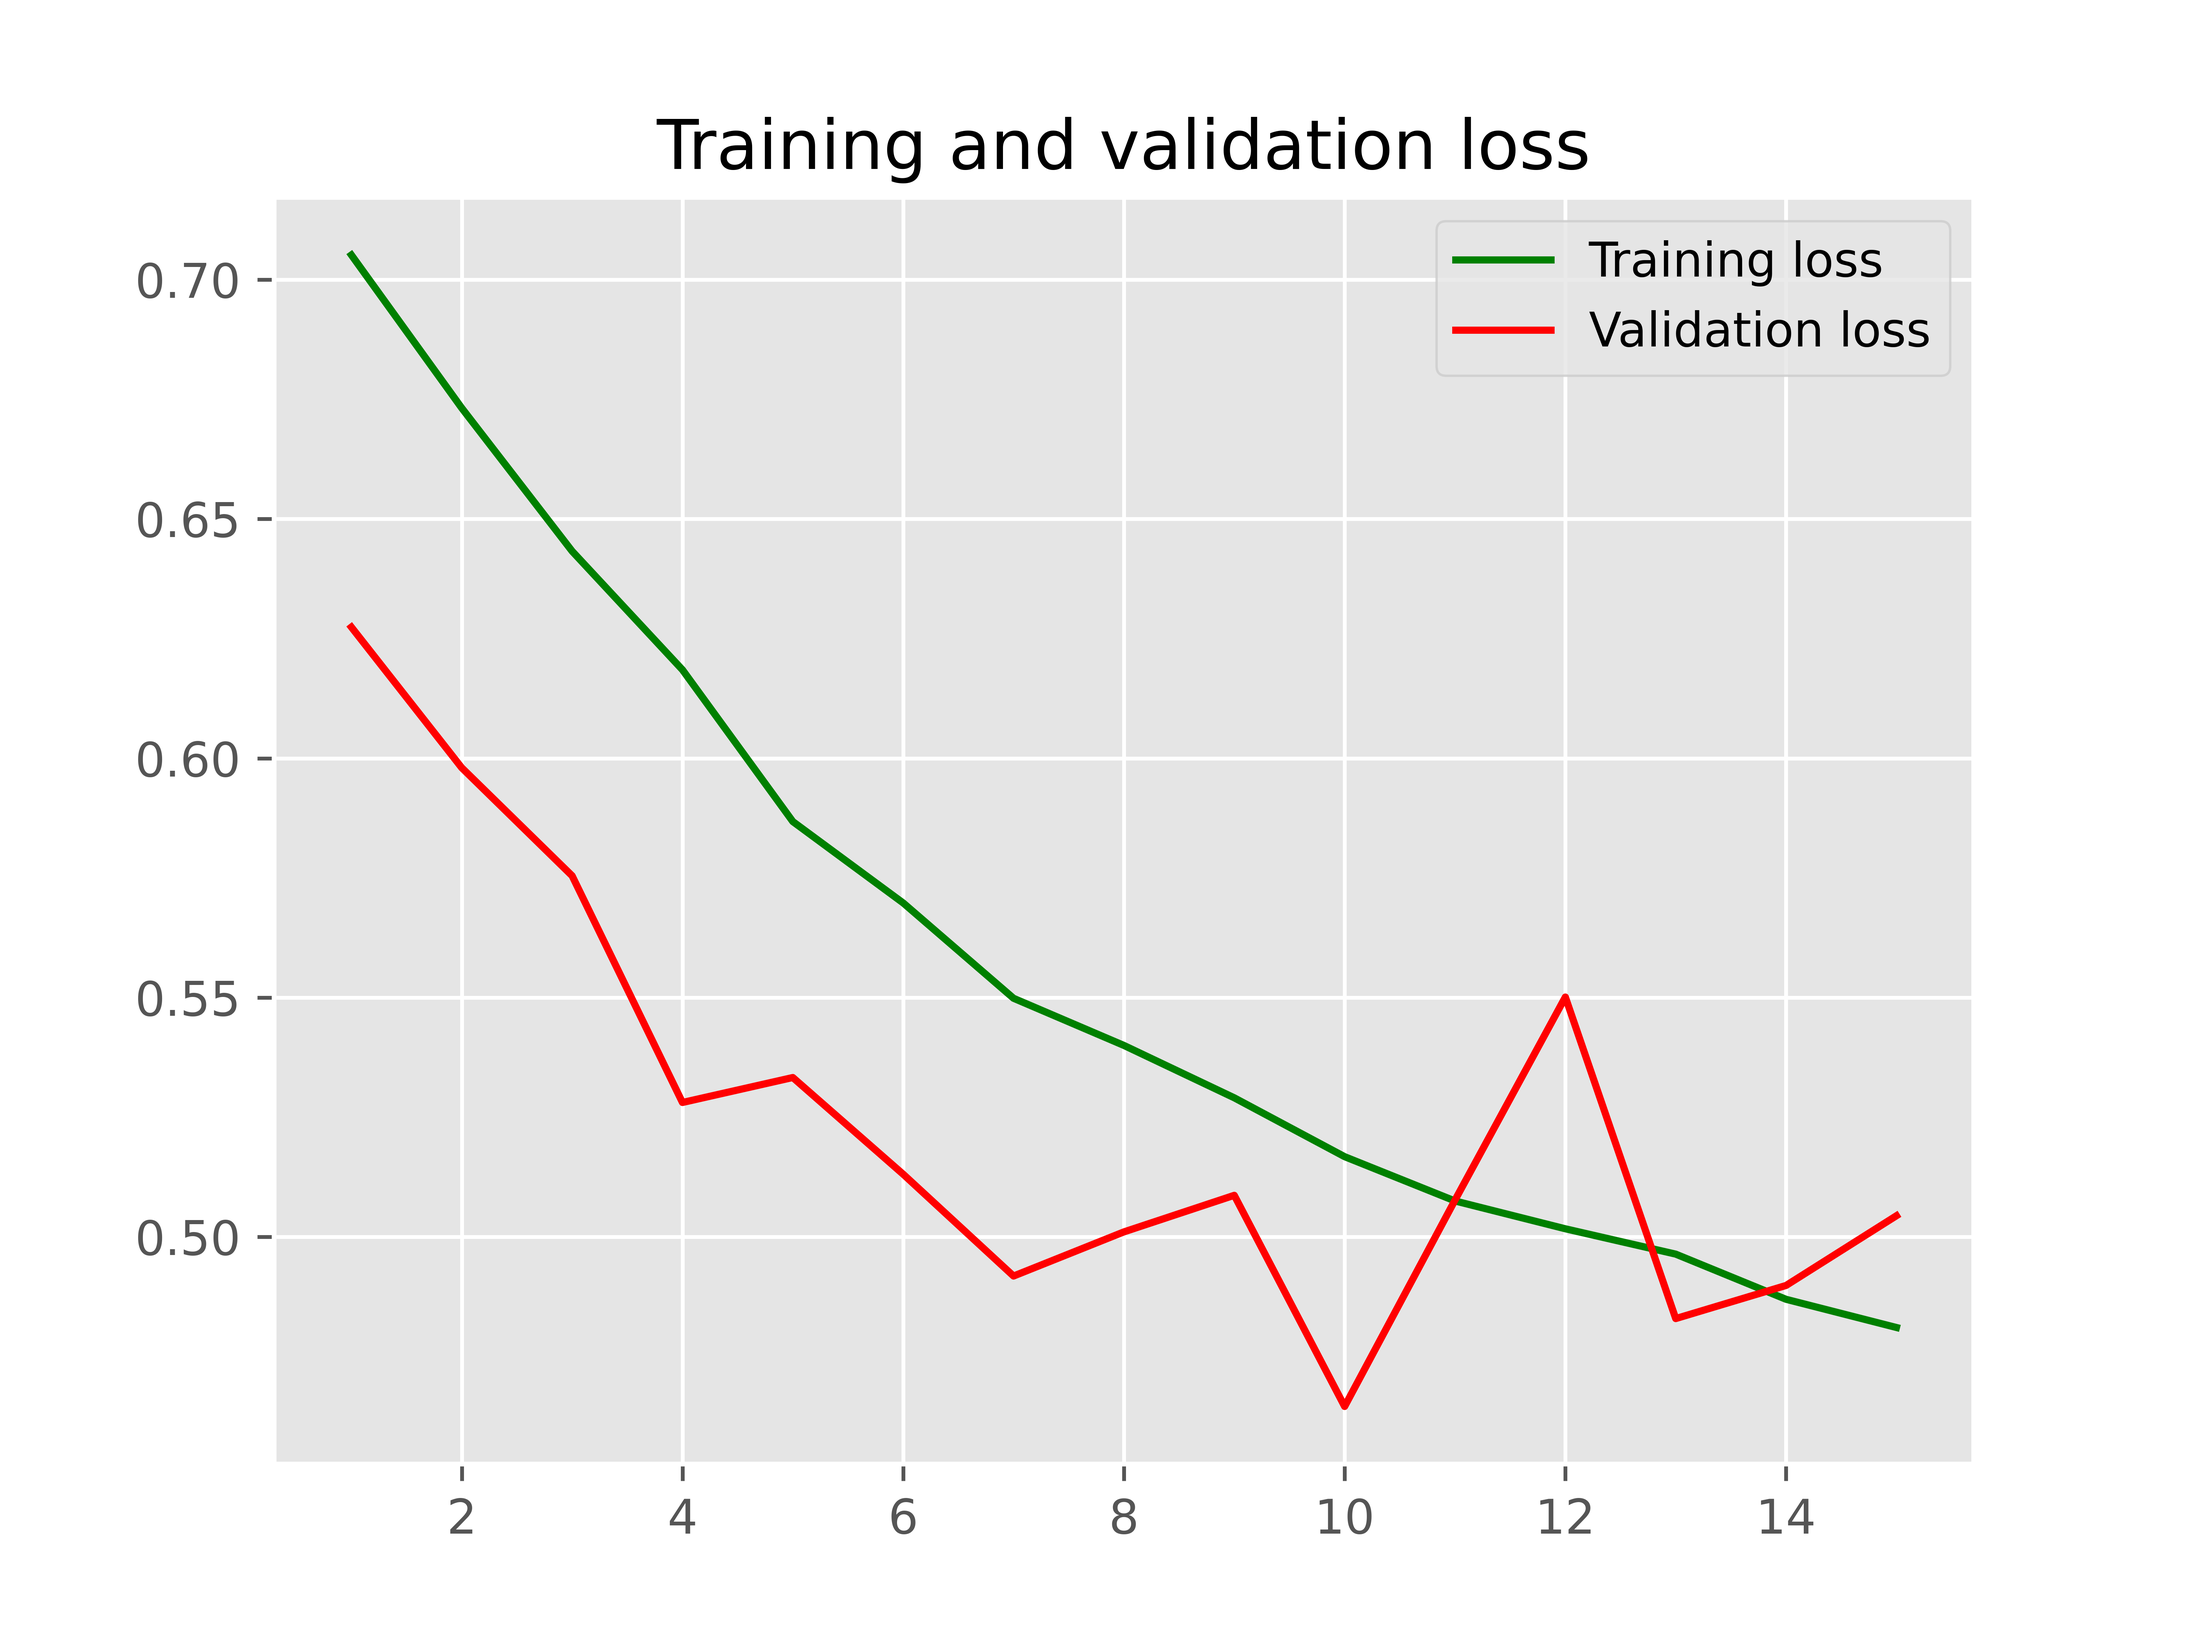
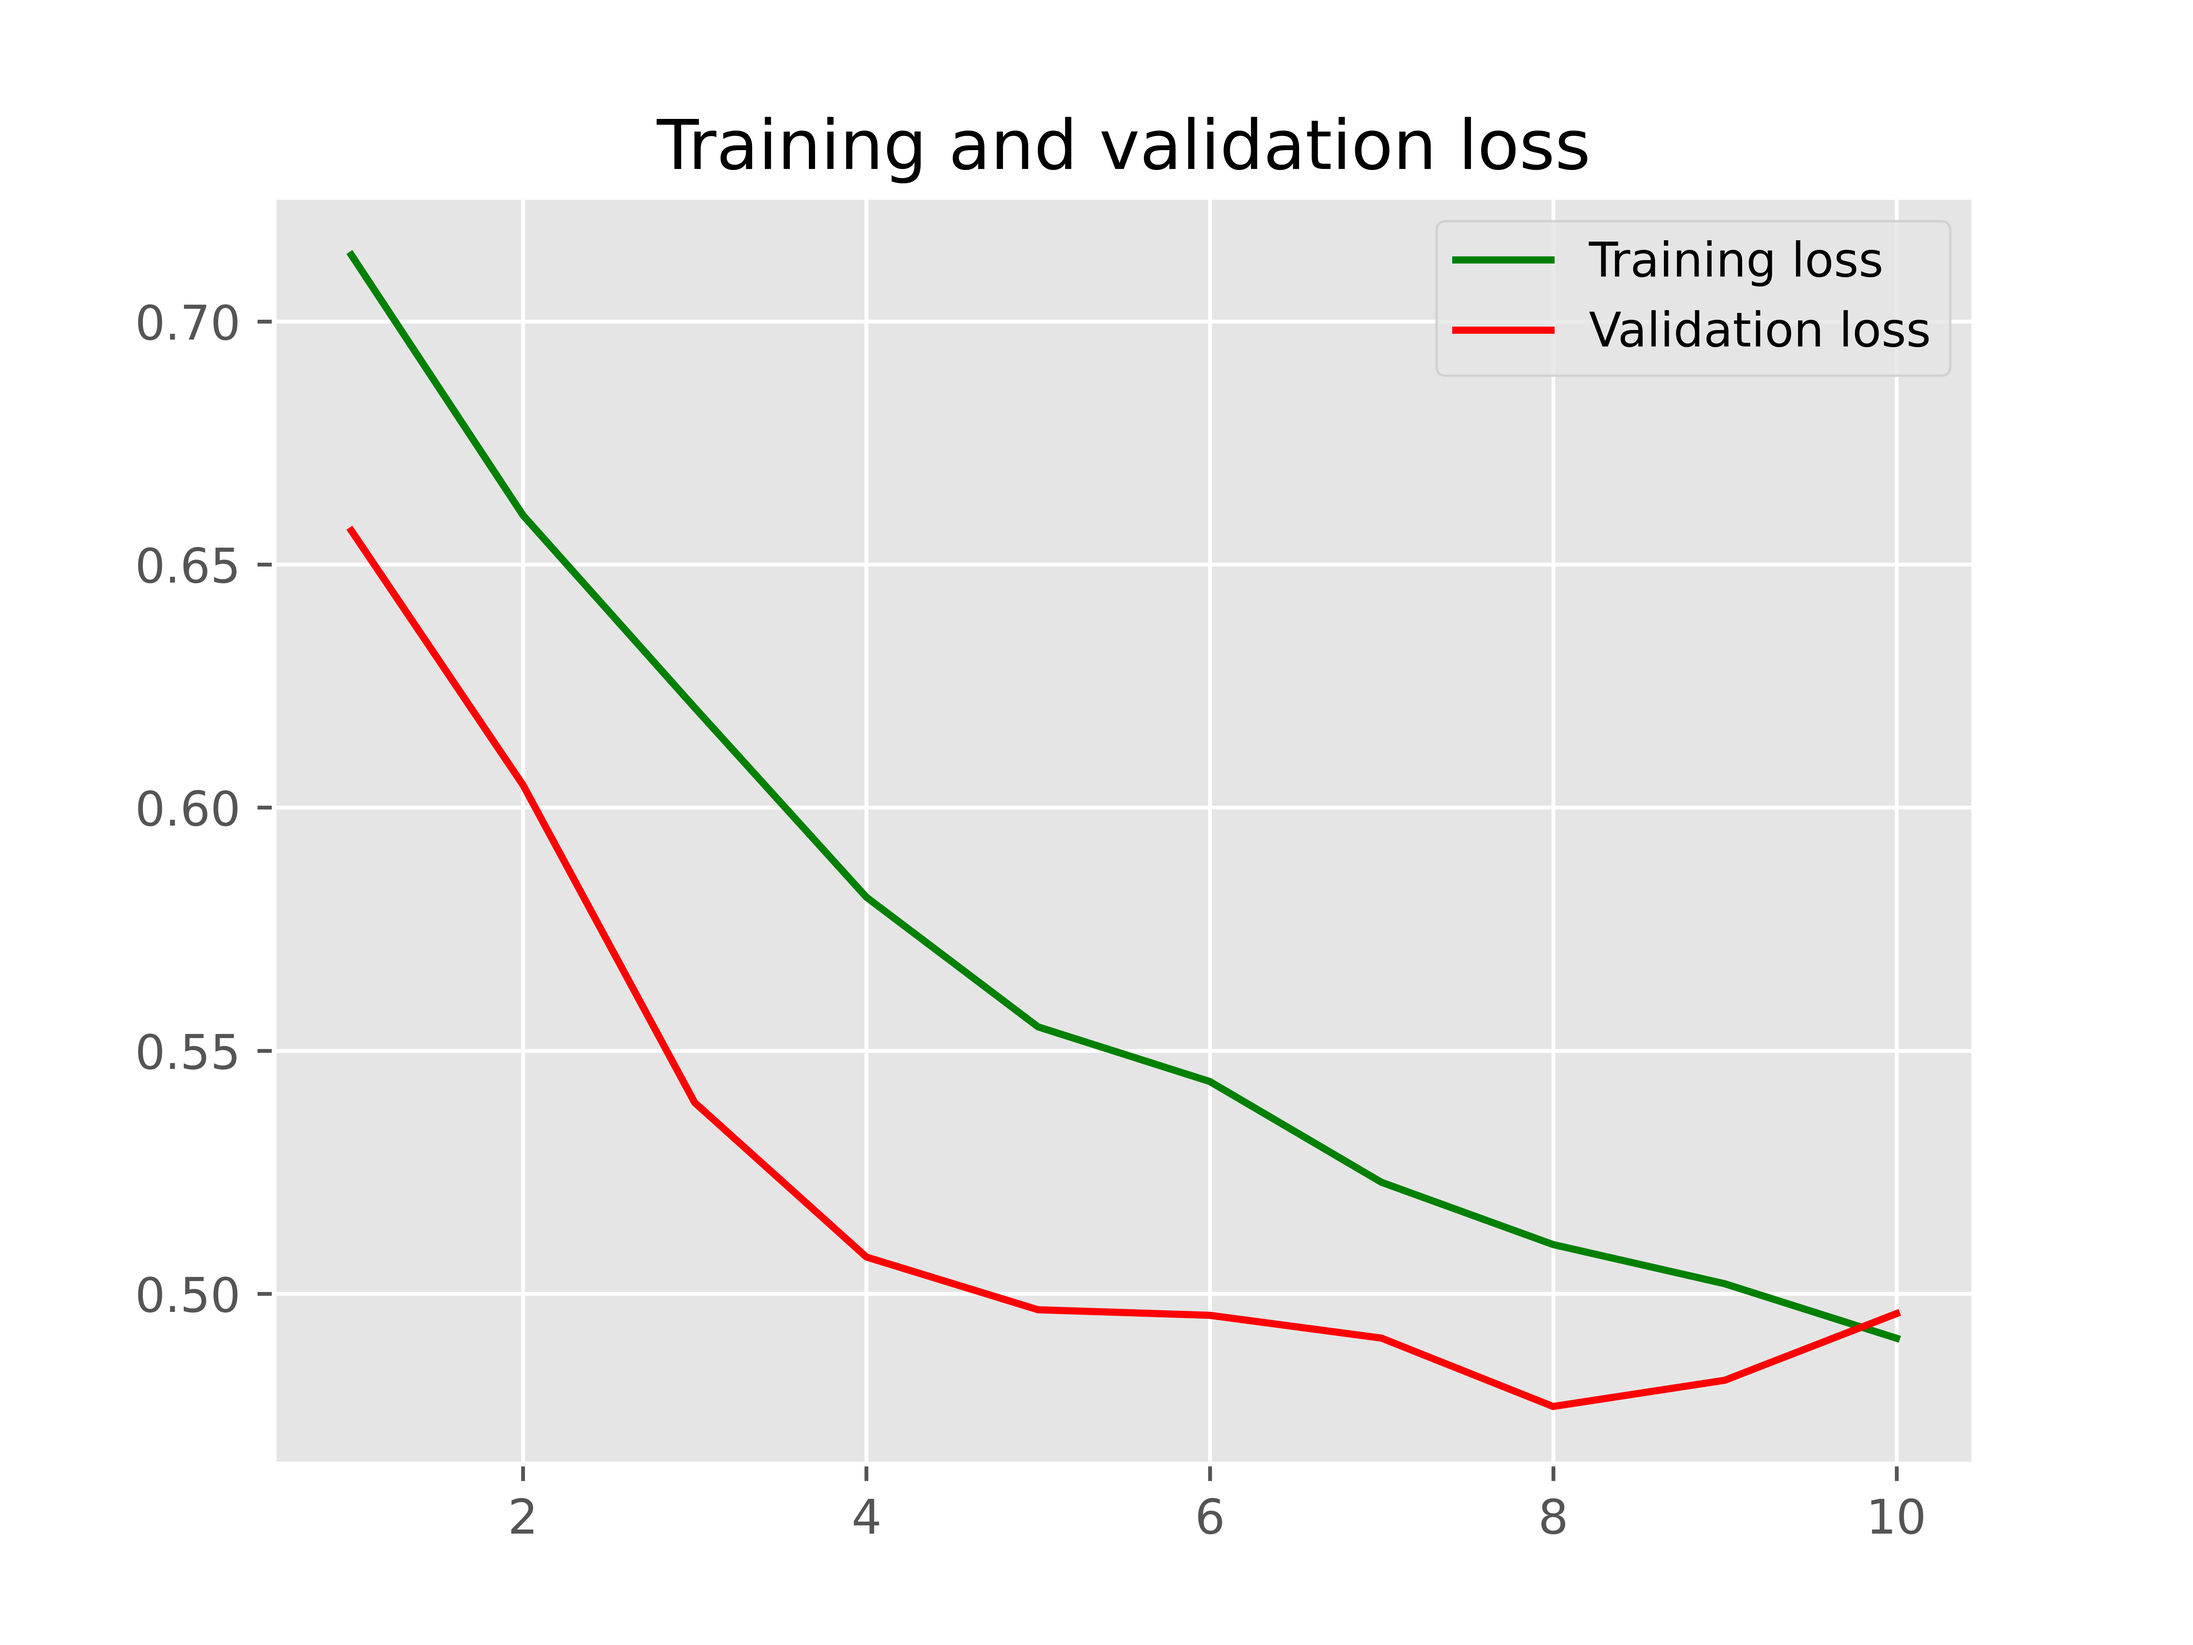
updated

diff --git a/Deep Learning/CNN/Model.py b/Deep Learning/CNN/Model.py
@@ -118,7 +118,7 @@ for datasetName, dataset in datasets.items():
 
     train_tweet, train_labels = smote(train_tweet, train_labels) if smoteStatus else (train_tweet, train_labels)
 
-    result = fit(model, train_labels, train_tweet, val_tweet, val_labels, 15)
+    result = fit(model, train_labels, train_tweet, val_tweet, val_labels, 10)
 
     predicted, precision, accuracy, recall, f1, classificationReport = modelEvaluation(model, test_tweet, test_labels)
 
